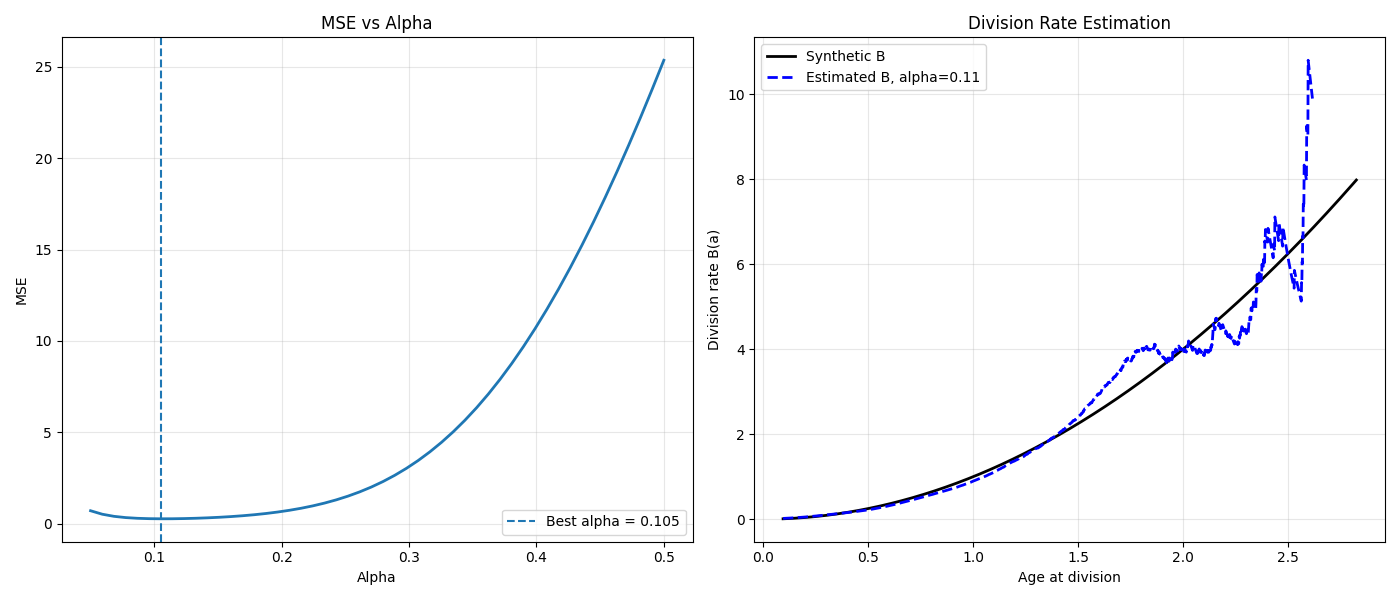
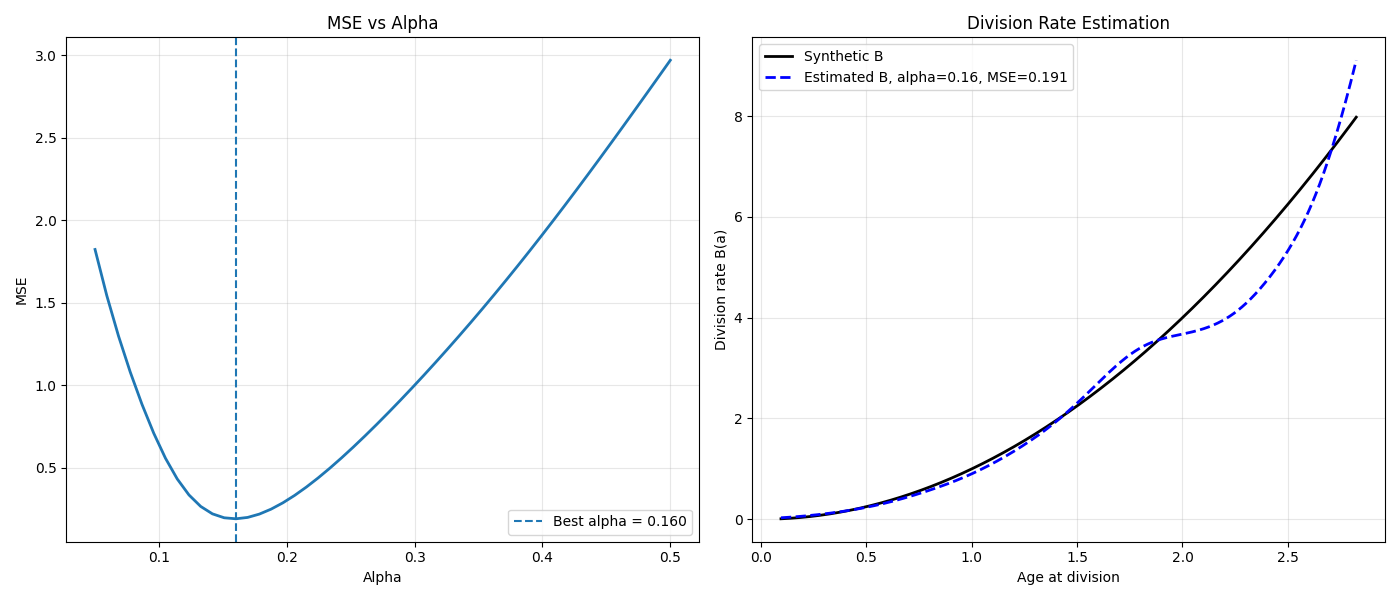
np random seed + cdf for estimator

diff --git a/estimators.py b/estimators.py
@@ -1,6 +1,10 @@
 import numpy as np
 import pandas as pd
 import matplotlib.pyplot as plt
+from tqdm import tqdm
+from scipy.stats import norm
+
+np.random.seed(42)
 
 def gaussian_kernel(z, alpha):
     return (1.0 / (np.sqrt(2 * np.pi) * alpha)) * np.exp(-0.5 * (z / alpha)**2)
@@ -9,27 +13,22 @@ def kernel_estimation(observations, alpha):
     obs = np.asarray(observations)
     a_grid = np.linspace(np.min(obs), np.max(obs), len(obs))
     
-    B_hat = []
+    numer_list = []
     denom_list = []
     
     for a in a_grid:
-        numerator = np.sum(gaussian_kernel(a - obs, alpha))
-        denominator = np.sum(obs >= a)
-        
-        B_hat.append(numerator)
-        denom_list.append(denominator)
+        z = (a - observations) / alpha 
+        numer = np.sum(gaussian_kernel(a - obs, alpha))
+        denom = np.sum(1-norm.cdf(z))
+        numer_list.append(numer)
+        denom_list.append(denom)
     
-    B_hat = np.array(B_hat)
-    denom = np.array(denom_list)
+    B_hat = np.array(numer_list) / np.array(denom_list) 
     
-    # handling division by zero by setting a mask to compute survival function only when there are more than k individuals
-    k = 4
-    valid = denom > k
-    
-    result = np.full_like(B_hat, np.nan)
-    result[valid] = B_hat[valid] / denom[valid]
-    
-    return result
+    return B_hat
+
+
+    # Handling division by zero: nan works better than denom+1
 
 def find_best_alpha(observations, B, alphas):
     obs = np.asarray(observations)
@@ -40,7 +39,7 @@ def find_best_alpha(observations, B, alphas):
     
     B_true = B(a_grid)
 
-    for alpha in alphas:
+    for alpha in tqdm(alphas):
         B_hat = kernel_estimation(obs, alpha)
         valid = ~np.isnan(B_hat)
         mse = np.mean((B_hat[valid] - B_true[valid])**2)

diff --git a/exploratory_stats.py b/exploratory_stats.py
@@ -5,6 +5,8 @@ import matplotlib.gridspec as gridspec
 import statsmodels.api as sm
 import os
 
+np.random.seed(42)
+
 OUTPUT_DIR = "outputs"
 os.makedirs(OUTPUT_DIR, exist_ok=True)
 PATH_POP = "data/pop_Eric0822_MDJ_sb_sd_ad.txt"
